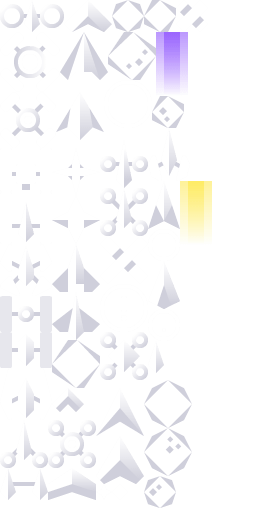
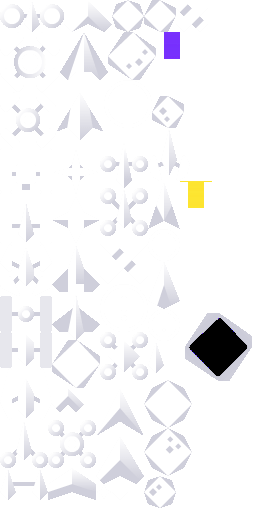
Yeah let's do some programmer-art for the black hole instead of a shader...

Changed region(s): [[0.7188, 0.5938, 1.0, 0.75], [0.6875, 0.3438, 0.8438, 0.4688], [0.5938, 0.0625, 0.75, 0.1875]]

diff --git a/Consumer.cpp b/Consumer.cpp
@@ -5,6 +5,7 @@
 #include "Consumer.h"
 
 #include <cmath>
+int score = 0;
 
 Consumer::Consumer(Object * obj, double mass):pobject(obj), _mass(mass) {
 }
@@ -18,15 +19,30 @@ void Consumer::update(double deltatime) {
             double dy = a->posY - this->pobject->posY;
             double dz = a->posZ - this->pobject->posZ;
             double dist = std::sqrt(dy*dy+dz*dz);
-            const double blackholesize = 1.0;
-            if (dist < blackholesize)
+            const double eventhorizon = 1.0;
+            if (dist < eventhorizon)
             {
-                a->movementworldX += (dist/blackholesize)/deltatime;
-                a->movementworldY *= (dist/blackholesize)*deltatime;
-                a->movementworldZ *= (dist/blackholesize)*deltatime;
-//                a->movementworldY *= (blackholesize-dist)-deltatime;
-//                a->movementworldZ *= (blackholesize-dist)-deltatime;
+                a->movementworldX += (dist / eventhorizon) / deltatime;
+                a->movementworldY *= (dist / eventhorizon) * deltatime;
+                a->movementworldZ *= (dist / eventhorizon) * deltatime;
+//                a->movementworldY *= (eventhorizon-dist)-deltatime;
+//                a->movementworldZ *= (eventhorizon-dist)-deltatime;
+                if (a->posX > 100) {
+                    for (int o = 0; o<pobjects->size(); o++)
+                    {
+                        if (pobjects->at(o) == a) {
+                            // erase the nth element
+                            pobjects->erase(pobjects->begin() + o);
+                            a->draw = false;
+                            score++;
+                        }
+                    }
+                }
             }
         }
     }
+}
+
+int Consumer::getscore() {
+    return score;
 }

diff --git a/Game.cpp b/Game.cpp
@@ -231,20 +231,21 @@ void Game::ResetGame()
     //orbitalV = orbitalV*std::sqrt(orbitdist);
     double orbitdist2 = 2.0;
     double orbitalV2 = std::sqrt((Gconstant * blackhole.mass)/orbitdist2);
-    blackhole.srcrect.x = 144;
-    blackhole.srcrect.y = 428;
-    blackhole.srcrect.h = meteorheight;
-    blackhole.srcrect.w = meteorwidth;
+    blackhole.srcrect.x = 184;
+    blackhole.srcrect.y = 313;
+    blackhole.srcrect.h = 67;
+    blackhole.srcrect.w = 67;
 	blackhole.init("../simpleSpace_sheet.png", renderer);
     blackhole.movementworldZ = 0.0;
-    blackhole.sizeX = planetradius/10;
-    blackhole.sizeY = planetradius/10;
-    blackhole.sizeZ = planetradius/10;
+    const int blackholeradius = planetradius * 2;
+    blackhole.sizeX = blackholeradius;
+    blackhole.sizeY = blackholeradius;
+    blackhole.sizeZ = blackholeradius;
     blackhole.posX = 0;
     blackhole.posY = 0.0;
     blackhole.posZ = 0.0;
     blackhole.movementworldY = 0.0;//-0.0/std::sqrt(2.0);
-    blackhole.movementrotation = 0.0;
+    blackhole.movementrotation = 0.1 * M_PI;
 
     planet.srcrect.x = 108;
     planet.srcrect.y = 32;
@@ -487,7 +488,7 @@ void Game::render()
         double dy = blackhole.posY - planet.posY;
         double dz = blackhole.posZ - planet.posZ;
 
-		std::sprintf(buff,"%f",std::sqrt(dx*dx+dy*dy+dz*dz));
+		std::sprintf(buff,"%i",Consumer::getscore());
         get_text_and_rect(renderer, 0, 0, buff, font, &fonttexture1, &fontrect1);
         SDL_RenderCopy(renderer, fonttexture1, NULL, &fontrect1);
 		//	vviring.render(renderer, camera);

diff --git a/Object.cpp b/Object.cpp
@@ -84,6 +84,8 @@ void Object::update(double dt) {
 
 // Returns false if sprite is outside screen
 Object::objectonscreen Object::render(SDL_Renderer *renderer, Camera camera) {
+    if (!draw)
+        return Object::objectonscreen::outofscreen;
 	// Assume camera is pointed straight ahead right now
 	//    o
 	// o-----x

diff --git a/main.cpp b/main.cpp
@@ -140,7 +140,7 @@ int main(int argc, char *argv[])
 
 
         game = new Game();
-        game->init("GameWindow", 640, 480, false);
+        game->init("GameWindow", 1024, 640, false);
 
         while (game->running())
         {

diff --git a/Camera.h b/Camera.h
@@ -6,8 +6,8 @@
 #define RB05SIM_CAMERA_H
 #include "Object.h"
 
-#define SCREENWIDTH 640.0
-#define SCREENHEIGHT 480.0
+#define SCREENWIDTH 1024.0
+#define SCREENHEIGHT 640.0
 #define SCREENFOV ((15.0/180.0)*M_PI)
 
 //class Object;

diff --git a/Object.h b/Object.h
@@ -44,6 +44,7 @@ public:
 	void TurnRollStabilized(double clockwise, double climb); 
 
 	void init(SDL_Texture *tex);
+	bool draw = true;
 };
 
 

diff --git a/Consumer.h b/Consumer.h
@@ -16,6 +16,7 @@ public:
     double _mass;
     std::vector<Object*> * pobjects;
     Object * pobject;
+    static int getscore();
 };
 
 
